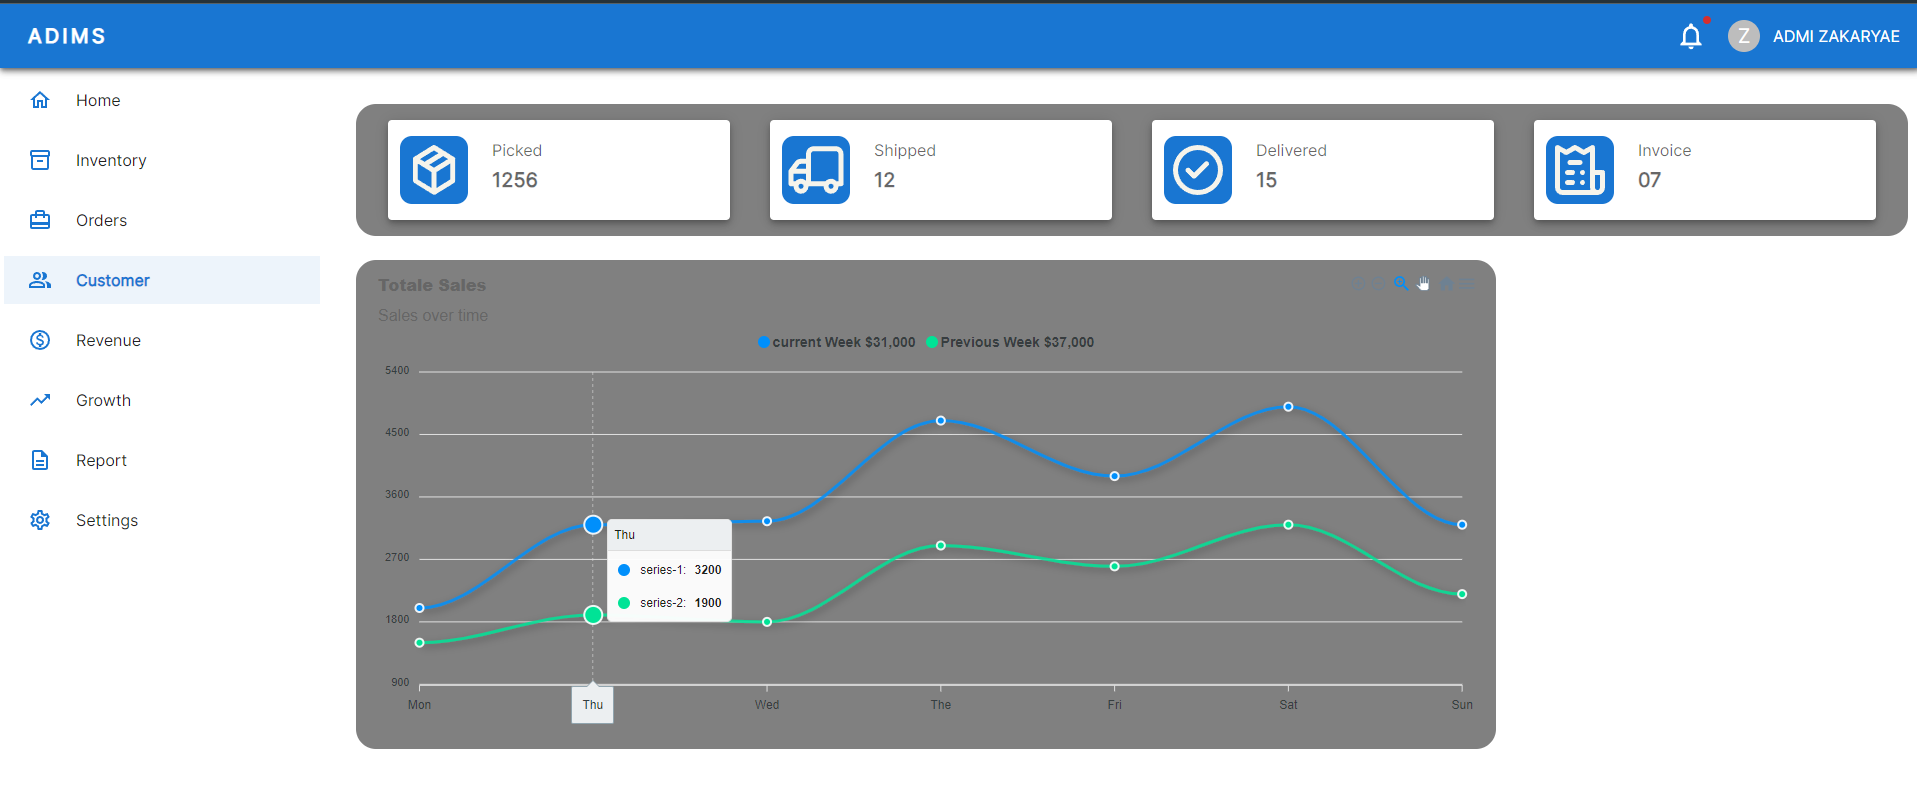
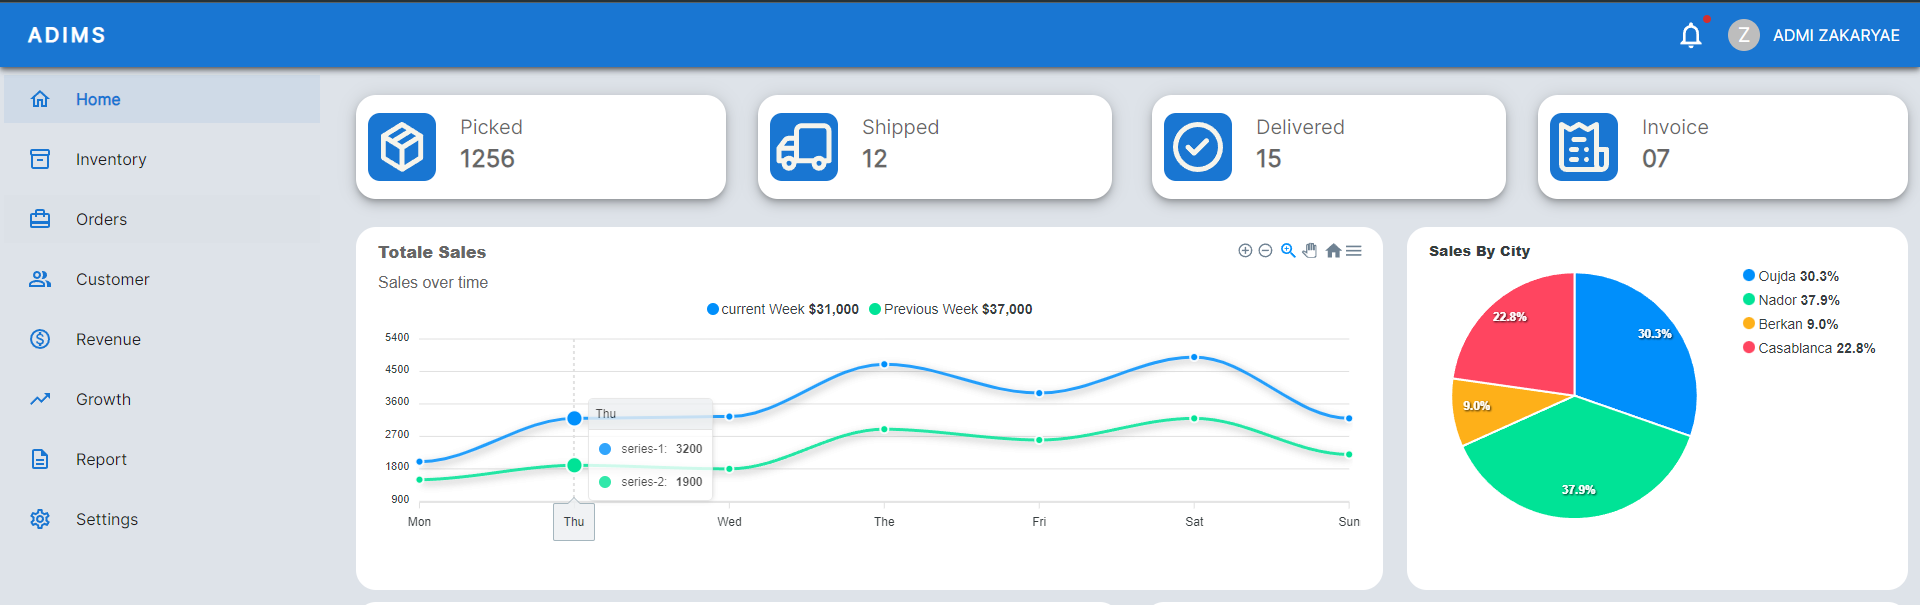
city chart

diff --git a/src/components/bodyComponents/Home/Home.jsx b/src/components/bodyComponents/Home/Home.jsx
@@ -7,6 +7,9 @@ import UilTruck from "@iconscout/react-unicons/icons/uil-truck";
 import UilCheckCircle from "@iconscout/react-unicons/icons/uil-check-circle";
 import InfoCard from "../../subComponents/InfoCard";
 import TotalSales from "./TotalSales";
+import SalesByCity from "./SalesByCity";
+import Channels from "./Channels";
+import TopSellingProduct from "./TopSellingProduct";
 export default class Home extends Component {
   constructor(props) {
     super(props);
@@ -20,7 +23,7 @@ export default class Home extends Component {
         icon: <UilBox size={60} color={"#F6F4EB"} />,
         title: "Picked",
         subTitle: "1256",
-        mx: 5,
+        mx: 3,
         my: 1,
       },
       {
@@ -41,7 +44,7 @@ export default class Home extends Component {
         icon: <UilReceipt size={60} color={"#F6F4EB"} />,
         title: "Invoice",
         subTitle: "07",
-        mx: 5,
+        mx: 3,
         my: 1,
       },
     ];
@@ -49,7 +52,7 @@ export default class Home extends Component {
     return (
       <Box
         sx={{
-          margin: 3,
+          margin: 0,
           // bgcolor: "grey",
           // borderRadius: 5,
           padding: 3,
@@ -61,9 +64,8 @@ export default class Home extends Component {
             display: "flex",
             justifyContent: "space-between",
             margin: 3,
-            bgcolor: "grey",
             borderRadius: 5,
-            padding: 3,
+            padding: 0,
           }}
         >
           {cardComponent.map((card, index) => (
@@ -72,14 +74,22 @@ export default class Home extends Component {
             </Grid>
           ))}
         </Grid>
-        <Grid
-          container
-          // sx={{ display: "flex", justifyContent: "space-between" }}
-        >
-          <Grid item md={"9"}>
+        <Grid container sx={{ margin: 3 }}>
+          <Grid item md={"8"}>
             <TotalSales data={data} />
           </Grid>
-          <Grid item md={"3"}></Grid>
+          <Grid item md={"4"}>
+            <SalesByCity data={data} />
+          </Grid>
+        </Grid>
+
+        <Grid container sx={{ margin: 3 }}>
+          <Grid item md={"6"}>
+            <Channels />
+          </Grid>
+          <Grid item md={"6"}>
+            <TopSellingProduct />
+          </Grid>
         </Grid>
       </Box>
     );

diff --git a/src/components/subComponents/InfoCard.jsx b/src/components/subComponents/InfoCard.jsx
@@ -4,7 +4,7 @@ export default function InfoCard({ card }) {
   return (
     //do the routing here
     <>
-      <Card elevation={5} sx={{ mx: card.mx, my: card.my }}>
+      <Card elevation={6} sx={{ mx: card.mx, my: card.my, borderRadius: 5 }}>
         <Box sx={{ display: "flex", alignItems: "center" }} pl={1}>
           <Box
             p={1}
@@ -12,7 +12,7 @@ export default function InfoCard({ card }) {
             sx={{
               display: "flex",
               bgcolor: "primary.main",
-              borderRadius: "12px",
+              borderRadius: 3,
               alignItems: "center",
             }}
           >
@@ -26,15 +26,11 @@ export default function InfoCard({ card }) {
               justifyContent: "center",
             }}
           >
-            <Typography
-              variant="subtitle1"
-              color="text.secondary"
-              component="div"
-            >
+            <Typography variant="h6" color="text.secondary" component="div">
               {card.title}
             </Typography>
             <Typography
-              variant="h6"
+              variant="h5"
               fontWeight={"bolder"}
               color="text.secondary"
               component="div"

diff --git a/src/components/bodyComponents/Home/SalesByCity.jsx b/src/components/bodyComponents/Home/SalesByCity.jsx
@@ -1,0 +1,45 @@
+import React from "react";
+import { Box } from "@mui/material";
+import ApexCharts from "react-apexcharts";
+
+export default function SalesByCity() {
+  const donutOption = {
+    labels: ["Oujda", "Nador", "Berkan", "Casablanca"],
+    legend: {
+      position: "right",
+      fontSize: "14",
+
+      customLegendItems: [
+        "Oujda <b>30.3%</b>",
+        "Nador <b>37.9%</b>",
+        "Berkan <b>9.0%</b>",
+        "Casablanca <b>22.8%</b>",
+      ],
+      //   const total = data.reduce((sum, value) => sum + value, 0);
+      // const percentages = data.map(value => ((value / total) * 100).toFixed(2) + '%');
+    },
+    title: {
+      text: "Sales By City",
+    },
+  };
+  const donutSeries = [44, 55, 13, 33];
+
+  return (
+    <Box
+      sx={{
+        margin: 3,
+        bgcolor: "white",
+        borderRadius: 5,
+        padding: 3,
+        height: "100%",
+      }}
+    >
+      <ApexCharts
+        options={donutOption}
+        series={donutSeries}
+        type="pie"
+        width="100%"
+      />
+    </Box>
+  );
+}

diff --git a/src/components/bodyComponents/Home/TotalSales.jsx b/src/components/bodyComponents/Home/TotalSales.jsx
@@ -25,12 +25,14 @@ export default function TotalSales() {
       width: 3,
     },
     legend: {
-      customLegendItems: ["current Week  $31,000", "Previous Week  $37,000"],
+      customLegendItems: [
+        "current Week  <b>$31,000<b/>",
+        "Previous Week <b>$37,000<b/>",
+      ],
       position: "top",
       horizontalAlign: "center",
       fontSize: "14px",
       fontFamily: "Helvetica, Arial",
-      fontWeight: 700,
       offsetY: -20,
     },
     markers: {
@@ -73,11 +75,19 @@ export default function TotalSales() {
     },
   ];
   return (
-    <Box sx={{ margin: 3, bgcolor: "grey", borderRadius: 5, padding: 3 }}>
+    <Box
+      sx={{
+        margin: 3,
+        bgcolor: "white",
+        borderRadius: 5,
+        padding: 3,
+        height: "100%",
+      }}
+    >
       <ApexCharts
         options={options}
         series={series}
-        height={450}
+        height={300}
         type="line"
         width="100%"
       />

diff --git a/src/components/RootComponent.jsx b/src/components/RootComponent.jsx
@@ -1,6 +1,6 @@
 import React from "react";
 import NavBarComponent from "./NavBarComponent";
-import { Grid } from "@mui/material";
+import { Box, Grid } from "@mui/material";
 import SideBarComponent from "./SideBarComponent";
 import BodyComponent from "./BodyComponent";
 
@@ -8,14 +8,17 @@ export default function RootComponent() {
   return (
     <>
       <NavBarComponent />
-      <Grid container spacing={0}>
-        <Grid item md={2} sm={0} sx={{ bgcolor: "error" }}>
-          <SideBarComponent />
+
+      <Box sx={{ bgcolor: "#DEE3E9" }}>
+        <Grid container spacing={0}>
+          <Grid item md={2} sm={0}>
+            <SideBarComponent />
+          </Grid>
+          <Grid item md={10}>
+            <BodyComponent />
+          </Grid>
         </Grid>
-        <Grid item md="10">
-          <BodyComponent />
-        </Grid>
-      </Grid>
+      </Box>
     </>
   );
 }

diff --git a/src/components/bodyComponents/Home/TopSellingProduct.jsx b/src/components/bodyComponents/Home/TopSellingProduct.jsx
@@ -1,0 +1,15 @@
+import React from "react";
+import { Box } from "@mui/material";
+export default function TopSellingProduct() {
+  return (
+    <Box
+      sx={{
+        margin: 3,
+        bgcolor: "white",
+        borderRadius: 5,
+        padding: 3,
+        height: "100%",
+      }}
+    ></Box>
+  );
+}

diff --git a/src/components/bodyComponents/Home/Channels.jsx b/src/components/bodyComponents/Home/Channels.jsx
@@ -1,0 +1,15 @@
+import React from "react";
+import { Box } from "@mui/material";
+export default function Channels() {
+  return (
+    <Box
+      sx={{
+        margin: 3,
+        bgcolor: "white",
+        borderRadius: 5,
+        padding: 3,
+        height: "100%",
+      }}
+    ></Box>
+  );
+}
